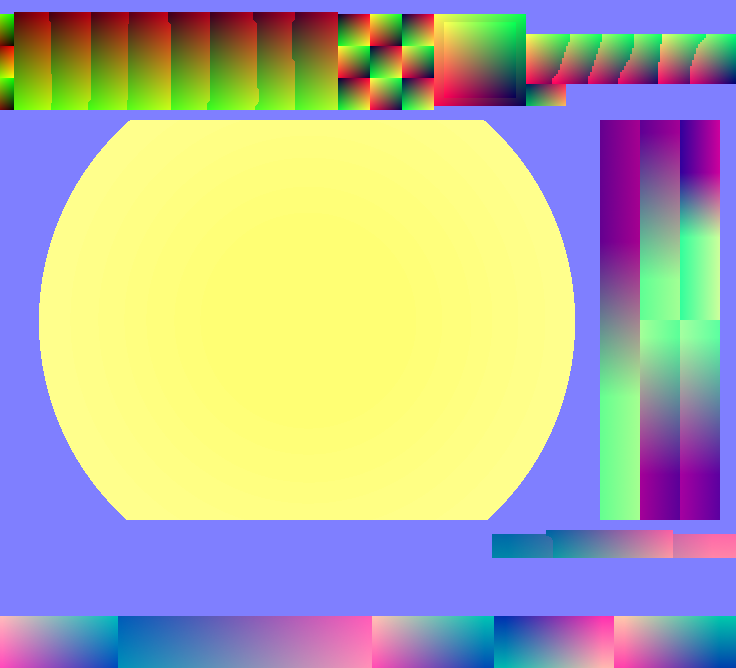
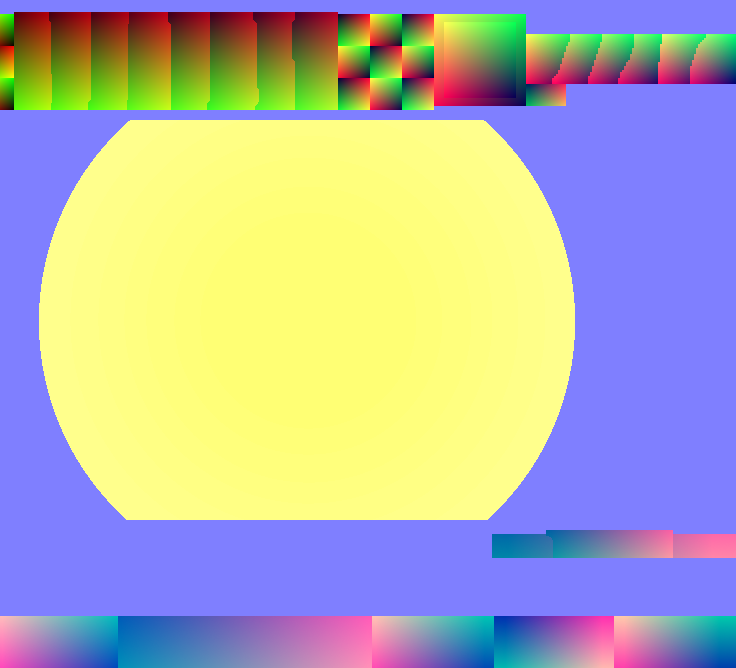
(SunBurnt) changing curve labels + various fixes and adjustments

Changed region(s): [[0.8125, 0.1796, 1.0, 0.7784]]

diff --git a/Plugins/SunBurnt/Source/PluginEditor.cpp b/Plugins/SunBurnt/Source/PluginEditor.cpp
@@ -84,11 +84,12 @@ void main(){
 R"(#version 150 core
 in vec2 uv;
 uniform sampler2D basetex;
+uniform sampler2D basetexjp;
 uniform sampler2D disptex;
 uniform vec2 texscale;
-uniform float selection;
 uniform float shineprog;
 uniform float dpi;
+uniform float isjp;
 uniform vec2 hidecube;
 uniform vec4 randomid;
 uniform vec4 randomx;
@@ -117,30 +118,82 @@ void main(){
 	}
 
 	vec3 col = vec3(0);
-	if(section == 1 && uv.x <= .80978) {
-		col.rg = texture(basetex,uv).rg;
-		col.b = texture(basetex,dispuv).b;
+	if(section == 1) {
+		col = vec3(texture(basetex,uv).r,0,texture(basetex,dispuv).b);
+	} else if(section == 2) {
+		if(isjp > .5)
+			col = vec3(texture(basetexjp,dispuv*vec2(1,4)).rg,texture(basetexjp,uv*vec2(1,4)).b);
+		else
+			col = vec3(texture(basetex,dispuv).rg,texture(basetex,uv).b);
 	} else {
-		col.rg = texture(basetex,dispuv).rg;
-		if(shineprog > -.65761 && section == 0 && uv.x >= .58967) {
+		col.r = texture(basetex,dispuv).r;
+		if(shineprog > -.65761 && uv.x >= .58967) {
 			float shine = texture(basetex,uv+vec2(shineprog,0)).g;
 			col.b = shine*col.r;
 			col.r *= (1-shine);
-		} else if(section == 2) col.b = texture(basetex,uv).b;
+		}
 	}
 
-	if(section == 1 && uv.x >= .80978 && uv.x <= .9837) {
-		vec2 selectuv = uv;
-		if(selection == 0) selectuv.x -= .5;
-		else {
-			if(mod(selection,2.) == 0) selectuv.y += .2994;
-			if(selection > 2.5) selectuv.x -= .054348;
-		}
-		col.g = 1-abs(col.r-texture(basetex,selectuv).g);
-		col.r = 1;
-	} else if(section < 2) col.g = 0;
-
 	fragColor = vec4(max(min((col-.5)*dpi+.5,1),0),1);
+})");
+
+	compileshader(selectshader,
+//SELECT VERT
+R"(#version 150 core
+in vec2 aPos;
+uniform float banner;
+uniform vec4 pos;
+out vec2 texuv;
+uniform float ratio;
+uniform vec3 uvoffset;
+out vec2 uv;
+void main(){
+	gl_Position = vec4(vec2(aPos.x*pos.z+pos.x,(aPos.y*pos.w+pos.y)*(1-banner))*2-1,0,1);
+	texuv = vec2(aPos.x-.5,(aPos.y-.5)*ratio);
+	texuv = vec2(
+		texuv.x*cos(uvoffset.z)-texuv.y*sin(uvoffset.z),
+		texuv.x*sin(uvoffset.z)+texuv.y*cos(uvoffset.z));
+	texuv = vec2(texuv.x,texuv.y/ratio)+.5+uvoffset.xy;
+	uv = aPos;
+})",
+//SELECT FRAG
+R"(#version 150 core
+in vec2 texuv;
+in vec2 uv;
+uniform sampler2D tex;
+uniform float isjp;
+uniform float dpi;
+uniform float select;
+uniform float ratio;
+uniform float index;
+out vec4 fragColor;
+void main(){
+	vec2 coords = vec2((max(min(texuv.x,1),0)+index)/8,texuv.y);
+	if(index < .5)
+		coords.y = coords.y*2-.5;
+
+	float label = 0;
+	if(isjp > .5)
+		label = texture(tex,coords).g;
+	else
+		label = texture(tex,coords).r;
+	if(dpi > 2)
+		label = (label-.5)*dpi*.6+.5;
+
+	if(select < .5) {
+		fragColor = vec4(0,0,0,label);
+	} else if(select < 1.5) {
+		fragColor = vec4(0,0,1,label);
+
+	} else {
+		coords = uv;
+		if(uv.y > .5)
+			coords.y = 1-coords.y;
+		coords = coords*vec2(2,ratio*2)-1;
+		coords.y = min(coords.y,0);
+		float x = (1-sqrt(coords.x*coords.x+coords.y*coords.y))*10*dpi+.5;
+		fragColor = vec4(1,1-label,0,x);
+	}
 })");
 
 	compileshader(visshader,
@@ -280,7 +333,9 @@ void main(){
 		texture(overlaytex,overlayuv-vec2(chromatic,0)).r,
 		texture(overlaytex,overlayuv).g,
 		texture(overlaytex,overlayuv+vec2(chromatic,0)).b)*.18),1);
-	//fragColor = vec4(texture(buffertex,uv).rgb,1);
+
+	//fragColor = vec4(texture(buffertex,uv).rgb*.5+.25,1);
+	//fragColor = vec4(coldark.g,colgray.g,colwite.g,1);
 })");
 
 	baseentex.loadImage(ImageCache::getFromMemory(BinaryData::base_en_png, BinaryData::base_en_pngSize));
@@ -299,6 +354,13 @@ void main(){
 
 	disptex.loadImage(ImageCache::getFromMemory(BinaryData::disp_png, BinaryData::disp_pngSize));
 	disptex.bind();
+	glTexParameteri(GL_TEXTURE_2D, GL_TEXTURE_MIN_FILTER, GL_LINEAR);
+	glTexParameteri(GL_TEXTURE_2D, GL_TEXTURE_MAG_FILTER, GL_LINEAR);
+	glTexParameteri(GL_TEXTURE_2D, GL_TEXTURE_WRAP_S, GL_CLAMP_TO_EDGE);
+	glTexParameteri(GL_TEXTURE_2D, GL_TEXTURE_WRAP_T, GL_CLAMP_TO_EDGE);
+
+	selecttex.loadImage(ImageCache::getFromMemory(BinaryData::curvelabels_png, BinaryData::curvelabels_pngSize));
+	selecttex.bind();
 	glTexParameteri(GL_TEXTURE_2D, GL_TEXTURE_MIN_FILTER, GL_LINEAR);
 	glTexParameteri(GL_TEXTURE_2D, GL_TEXTURE_MAG_FILTER, GL_LINEAR);
 	glTexParameteri(GL_TEXTURE_2D, GL_TEXTURE_WRAP_S, GL_CLAMP_TO_EDGE);
@@ -408,43 +470,85 @@ void SunBurntAudioProcessorEditor::renderOpenGL() {
 	//base
 	baseshader->use();
 	context.extensions.glActiveTexture(GL_TEXTURE0);
-	if(jpmode) basejptex.bind();
-	else baseentex.bind();
+	baseentex.bind();
 	baseshader->setUniform("basetex",0);
-	context.extensions.glActiveTexture(GL_TEXTURE1);
+	if(jpmode) {
+		context.extensions.glActiveTexture(GL_TEXTURE1);
+		basejptex.bind();
+		baseshader->setUniform("basetexjp",1);
+	}
+	context.extensions.glActiveTexture(GL_TEXTURE2);
 	disptex.bind();
-	baseshader->setUniform("disptex",1);
+	baseshader->setUniform("disptex",2);
+	baseshader->setUniform("isjp",jpmode?1.f:0.f);
 	baseshader->setUniform("banner",banneroffset);
 	baseshader->setUniform("texscale",736.f/baseentex.getWidth(),668.f/baseentex.getHeight());
-	baseshader->setUniform("selection",(float)curveselection);
 	baseshader->setUniform("shineprog",websiteht);
 	baseshader->setUniform("hidecube",(float)hidecube[0],(float)hidecube[1]);
 	baseshader->setUniform("randomid",(float)randomid[0],(float)randomid[1],(float)randomid[2],(float)randomid[3]);
 	baseshader->setUniform("randomx",randomdir[0],randomdir[1],randomdir[2],randomdir[3]);
 	baseshader->setUniform("randomy",randomdir[4],randomdir[5],randomdir[6],randomdir[7]);
 	baseshader->setUniform("randomblend",randomblend[0],randomblend[1],randomblend[2],randomblend[3]);
-	baseshader->setUniform("dpi",(float)fmax(scaleddpi*.5f,1.f));
+	if(scaleddpi > 2)
+		baseshader->setUniform("dpi",scaleddpi*.6f);
+	else
+		baseshader->setUniform("dpi",1.f);
 	context.extensions.glEnableVertexAttribArray(coord);
 	context.extensions.glVertexAttribPointer(coord,2,GL_FLOAT,GL_FALSE,0,0);
 	glDrawArrays(GL_TRIANGLE_STRIP,0,4);
 	context.extensions.glDisableVertexAttribArray(coord);
 
+	//curve selection
+	selectshader->use();
+	coord = context.extensions.glGetAttribLocation(selectshader->getProgramID(),"aPos");
+	context.extensions.glEnableVertexAttribArray(coord);
+	context.extensions.glVertexAttribPointer(coord,2,GL_FLOAT,GL_FALSE,0,0);
+	context.extensions.glActiveTexture(GL_TEXTURE0);
+	selecttex.bind();
+	selectshader->setUniform("tex",0);
+	selectshader->setUniform("dpi",scaleddpi);
+	selectshader->setUniform("banner",banneroffset);
+	selectshader->setUniform("isjp",jpmode?1.f:0.f);
+	for(int i = 0; i < 5; ++i) {
+		if(i != 0 && curveindex[i] == 0)
+			//selectshader->setUniform("index",-1.f); TODO: enable
+			selectshader->setUniform("index",(float)fmax(i*2-1,0));
+		else
+			selectshader->setUniform("index",(float)curveindex[i]);
+		selectshader->setUniform("pos",(300+20*((i+1)/2))/368.f,(74+100*(i%2))/334.f,20/368.f,(i==0?200:100)/334.f);
+		selectshader->setUniform("select",curveselection==i?2.f:(hover==29013?1.f:0.f));
+		selectshader->setUniform("ratio",i==0?10.f:5.f);
+
+		bool found = false;
+		for(int ii = 0; ii < 4; ++ii) if(randomid[ii] == (i+36)) {
+			selectshader->setUniform("uvoffset",
+				(1-fabs(randomblend[ii]))*randomdir[ii]*.05f,
+				(1-fabs(randomblend[ii]))*randomdir[ii+4]*(i==0?.005f:.01f),
+				randomblend[ii]*.03);
+			found = true;
+			break;
+		}
+		if(!found) selectshader->setUniform("uvoffset",0.f,0.f,0.f);
+
+		glDrawArrays(GL_TRIANGLE_STRIP,0,4);
+	}
+
 	//vis line
 	visshader->use();
 	glBlendFunc(GL_SRC_ALPHA, GL_ONE);
 	coord = context.extensions.glGetAttribLocation(visshader->getProgramID(),"aPos");
-	visshader->setUniform("banner",banneroffset);
-	visshader->setUniform("dpi",scaleddpi);
 	context.extensions.glEnableVertexAttribArray(coord);
 	context.extensions.glVertexAttribPointer(coord,3,GL_FLOAT,GL_FALSE,0,0);
 	context.extensions.glBufferData(GL_ARRAY_BUFFER, sizeof(float)*3408, visline, GL_DYNAMIC_DRAW);
+	visshader->setUniform("banner",banneroffset);
+	visshader->setUniform("dpi",scaleddpi);
 	glDrawArrays(GL_TRIANGLE_STRIP,0,1136);
 	context.extensions.glDisableVertexAttribArray(coord);
 	context.extensions.glBufferData(GL_ARRAY_BUFFER, sizeof(float)*8, square, GL_DYNAMIC_DRAW);
 
 	//tension points
 	int curveid = curveindex[curveselection];
-	if(curveid == 0) curveid = fmax(curveselection*2-1,0);
+	if(curveid == 0) curveid = fmax(curveselection*2-1,0); //TODO
 	circleshader->use();
 	coord = context.extensions.glGetAttribLocation(circleshader->getProgramID(),"aPos");
 	context.extensions.glEnableVertexAttribArray(coord);
@@ -566,8 +670,8 @@ void SunBurntAudioProcessorEditor::renderOpenGL() {
 			break;
 		}
 		circleshader->setUniform("knobpos",(x*uiscales[uiscaleindex])/getWidth()-1,(y*uiscales[uiscaleindex])/getHeight()-1);
-		circleshader->setUniform("colin",1.f,curveindex[i+1]==0?0.f:1.f,0.f);
-		circleshader->setUniform("colout",1.f,curveindex[i+1]==0?1.f:0.f,0.f);
+		circleshader->setUniform("colin",1.f,curveindex[i+1]==0?0.f:1.f,0.f); // TODO
+		circleshader->setUniform("colout",1.f,curveindex[i+1]==0?1.f:0.f,0.f); // TODO
 		glDrawArrays(GL_TRIANGLE_STRIP,0,4);
 	}
 	context.extensions.glDisableVertexAttribArray(coord);
@@ -634,13 +738,16 @@ void SunBurntAudioProcessorEditor::renderOpenGL() {
 }
 void SunBurntAudioProcessorEditor::openGLContextClosing() {
 	baseshader->release();
+	selectshader->release();
 	visshader->release();
 	circleshader->release();
+	panelshader->release();
 	ppshader->release();
 
 	baseentex.release();
 	basejptex.release();
 	disptex.release();
+	selecttex.release();
 	overlaytex.release();
 
 	framebuffer.release();
@@ -658,7 +765,7 @@ void SunBurntAudioProcessorEditor::openGLContextClosing() {
 }
 void SunBurntAudioProcessorEditor::calcvis() {
 	curveiterator iterator;
-	if(curveindex[curveselection] == 0)
+	if(curveindex[curveselection] == 0) //TODO
 		iterator.reset(curves[(int)fmax(curveselection*2-1,0)],568);
 	else
 		iterator.reset(curves[curveindex[curveselection]],568);
@@ -822,6 +929,12 @@ void SunBurntAudioProcessorEditor::recalclabels() {
 	for(int i = 0; i < slidersvisible.size(); ++i) {
 		sliderslabel.push_back(sliders[slidersvisible[i]].displayname+":");
 		if(slidersvisible[i] == 0 || slidersvisible[i] == 2) {
+			/*
+			if((slidersvisible[i] == 0 && sliders[slidersvisible[i]].value <= 0) || (slidersvisible[i] == 2 && sliders[slidersvisible[i]].value >= 1)) {
+				slidersvalue.push_back("Off");
+				continue;
+			}
+			*/
 			int pt = mapToLog10(sliders[slidersvisible[i]].inflate(sliders[slidersvisible[i]].value),20.0f,20000.0f);
 			if(pt < 1000) {
 				slidersvalue.push_back(((String)pt)+"hz");
@@ -848,7 +961,7 @@ void SunBurntAudioProcessorEditor::recalclabels() {
 }
 void SunBurntAudioProcessorEditor::recalcsliders() {
 	int curveid = curveindex[curveselection];
-	if(curveid == 0) curveid = fmax(curveselection*2-1,0);
+	if(curveid == 0) curveid = fmax(curveselection*2-1,0); // TODO
 	slidersvisible.clear();
 	for(int i = 0; i < slidercount; ++i) {
 		for(int s = 0; s < sliders[i].showon.size(); ++s) {
@@ -971,7 +1084,7 @@ void SunBurntAudioProcessorEditor::mouseDown(const MouseEvent& event) {
 		} else {
 			int id = (int)(hover*.5)+5;
 			int val = 0;
-			if(curveindex[id] == 0) val = fmax(id*2-1,0);
+			if(curveindex[id] == 0) val = fmax(id*2-1,0); //TODO
 			audioProcessor.apvts.getParameter("curve"+(String)id)->setValueNotifyingHost(val/7.f);
 			audioProcessor.undoManager.setCurrentTransactionName((String)"Changed curve "+(String)id+" to "+audioProcessor.params.curves[val].name);
 			audioProcessor.undoManager.beginNewTransaction();

diff --git a/Plugins/SunBurnt/Source/PluginProcessor.cpp b/Plugins/SunBurnt/Source/PluginProcessor.cpp
@@ -483,7 +483,7 @@ void SunBurntAudioProcessor::genbuffer() {
 		values[3] = state.values[13];
 		values[4] = state.values[14];
 		values[5] = .5;
-		values[6] = pow(state.values[2],4);
+		values[6] = state.values[2];
 		values[7] = 0;
 
 		for(int i = 1; i < 5; ++i)
@@ -494,6 +494,7 @@ void SunBurntAudioProcessor::genbuffer() {
 		values[2] = mapToLog10(values[2],0.1,40.0);
 		values[3] = mapToLog10(values[3],20.0,20000.0);
 		values[4] = mapToLog10(values[4],0.1,40.0);
+		values[6] = pow(values[6],4);
 
 		for (int c = 0; c < channelnum; ++c) {
 
@@ -515,13 +516,13 @@ void SunBurntAudioProcessor::genbuffer() {
 			}
 
 			//low pass
-			if(valuesactive[3] || values[3] < 1) {
+			if(valuesactive[3] || values[3] < 20000) {
 				(*lowpassfilters[c].parameters.get()).setCutOffFrequency(samplerate,values[3],values[4]);
 				out = lowpassfilters[c].processSample(out);
 			}
 
 			//high pass
-			if(valuesactive[1] || values[1] > 0) {
+			if(valuesactive[1] || values[1] > 20) {
 				(*highpassfilters[c].parameters.get()).setCutOffFrequency(samplerate,values[1],values[2]);
 				out = highpassfilters[c].processSample(out);
 			}
@@ -641,6 +642,7 @@ void SunBurntAudioProcessor::parameterChanged(const String& parameterID, float n
 		if(params.pots[i].smoothtime > 0) params.pots[i].smooth.setTargetValue(newValue);
 		else state.values[i] = newValue;
 		presets[currentpreset].values[i] = newValue;
+
 		if(parameterID.startsWith("curve"))
 			updatedcurve = true;
 		else if(parameterID == "length" || parameterID == "sync"

diff --git a/Plugins/SunBurnt/Source/PluginEditor.h b/Plugins/SunBurnt/Source/PluginEditor.h
@@ -70,7 +70,7 @@ uniform vec2 time;
 out vec2 uv;
 void main(){
 	gl_Position = vec4((aPos*pos.zw+pos.xy)*2-1,0,1);
-	gl_Position.y = pow(max(0,letter-time.x+1.5),4)*-0.0002-gl_Position.y;
+	gl_Position.y = pow(max(0,letter-time.x+1.5),4)*-0.0003-gl_Position.y;
 	uv = (aPos*texpos.zw+texpos.xy);
 	uv.y = 1-uv.y;
 })",
@@ -158,7 +158,10 @@ private:
 	bool jpmode = true;
 	std::unique_ptr<OpenGLShaderProgram> baseshader;
 
+	OpenGLTexture selecttex;
 	int curveselection = 0;
+	std::unique_ptr<OpenGLShaderProgram> selectshader;
+
 	std::unique_ptr<OpenGLShaderProgram> visshader;
 
 	int hover = -1;
